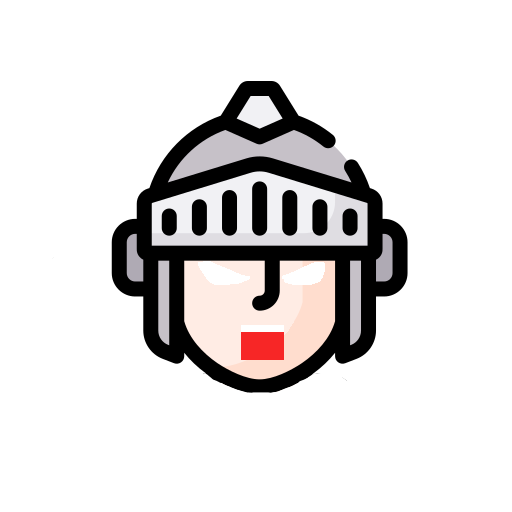
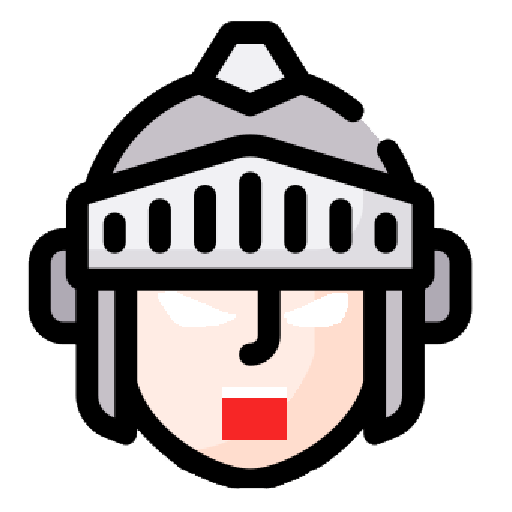
Added Weapon Sprites Fixed knight 2 sizing

diff --git a/Character.py b/Character.py
@@ -23,7 +23,7 @@ class Character(Widget): #Create subclass for all character types  player, enemi
         super().__init__(**kwargs)
         #initiate widget size and widget pos
         self.pos = startpos
-        self.size_hint = (0.5/4, 0.5/3) #weird size_hint being used because ScreenManager is stupid relative layout
+        self.size_hint = (0.5/4, 0.5/3) #weird size_hint being used because ScreenManager is a stupid relative layout
         
         self.game_over = False
         self.movekeys = movekeys
@@ -134,12 +134,7 @@ class Character(Widget): #Create subclass for all character types  player, enemi
             self.stamina.pos = (newx, newy+130)
         #updating position of player model
         
-        if self.collide_widget(b2) or not self.atkoffcd:    
-            
-            self.pos = (currentx, currenty)
-            self.player.pos = (currentx, currenty)
-            self.health.pos = (currentx, currenty+150)
-            self.stamina.pos = (currentx, currenty+130)
+        
             
         #attack functionality    
         if self.movekeys[4] in FA.FightArea.keysPressed:
@@ -154,7 +149,7 @@ class Character(Widget): #Create subclass for all character types  player, enemi
                 self.weapon.weapspawn(((self.player.pos[0] + self.weapondirectiondict[self.orientation][0]), (self.player.pos[1]+ self.weapondirectiondict[self.orientation][1])), self.orientation)
                 Clock.schedule_interval(partial(self.weapon.move, self.orientation), 0)
                 self.atkoffcd = False
-                Clock.schedule_once(self.attackcooldown, 0.5)
+                Clock.schedule_once(self.attackcooldown, self.weapon.weapon_speed)
                 
             else:
                 self.stamina.size = self.stamina.size
@@ -187,7 +182,8 @@ class Character(Widget): #Create subclass for all character types  player, enemi
                     if not was_guarding:
                         self.guarding_sound.play()
                         FA.guard_animation(self, self.left_shield, self.right_shield, self.player.pos)
-                        
+           
+            #Great hammers have a ground smash special            
             if self.weapon.weaptype == "hammer" and not self.parry_state and not self.vuln_state:
                 
                 self.weapon.weapon_color.rgba = (1, 1, 1, 0.5)
@@ -210,6 +206,14 @@ class Character(Widget): #Create subclass for all character types  player, enemi
         if self.stamavail < 100 and not self.guard_state and self.hammer_charge == 0:        
             self.stamavail += 10 * dt
         self.stamina.size = (self.stamavail, self.stamina.size[1])
+        
+        #Ensures that player sprites don't get stuck inside each other
+        if self.collide_widget(b2) or not self.atkoffcd:    
+            
+            self.pos = (currentx, currenty)
+            self.player.pos = (currentx, currenty)
+            self.health.pos = (currentx, currenty+150)
+            self.stamina.pos = (currentx, currenty+130)
            
         
             
@@ -357,9 +361,8 @@ class Character(Widget): #Create subclass for all character types  player, enemi
         
     def hammer_charge_reset(self, dt):
         self.hammer_charge = 0
-        self.weapon.size = (0, 0)
-        self.weapon.hitbox.size = (0, 0)
         
+        self.weapon.weapdespawn()
         self.vuln_state = False
         
 

diff --git a/Weapon.py b/Weapon.py
@@ -21,7 +21,7 @@ class Sword(Widget):
         self.movecost = 0
         self.attack_sound = SoundLoader.load("weapon_swing.wav")
         self.attack_sound.seek(0)
-        
+        self.weapon_speed = 0.9
         
         with self.canvas:
             Color(1, 1, 1, 1)
@@ -37,6 +37,7 @@ class Sword(Widget):
         self.size = Sword.orientationdict[orientation][0]
         self.hitbox.pos = spawnpos
         self.hitbox.size = Sword.orientationdict[orientation][0]
+        self.hitbox.source = "sword{:1}.png".format(orientation)
         pass
     def move(self, orientation, dt, *largs):
         self.attack_sound.play()
@@ -78,7 +79,7 @@ class Lance(Widget):
         self.orientation = orientation
         self.movecost = 0
         self.attack_sound = SoundLoader.load("weapon_swing.wav")
-        
+        self.weapon_speed = 1.2
         
         with self.canvas:
             Color(1, 1, 1, 1)
@@ -94,6 +95,7 @@ class Lance(Widget):
         self.size = Lance.orientationdict[orientation][0]
         self.hitbox.pos = spawnpos
         self.hitbox.size = Lance.orientationdict[orientation][0]
+        self.hitbox.source = "lance{:1}.png".format(orientation)
         pass
     def move(self, orientation, dt, *largs):
         self.attack_sound.play()
@@ -130,9 +132,10 @@ class Hammer(Widget):
         super().__init__(**kwargs)
         self.size = (0, 0)
         self.pos = startpos
-        self.damage = 20
+        self.damage = 40
         self.orientation = orientation
         self.movecost = 0
+        self.weapon_speed = 1.5
         self.attack_sound = SoundLoader.load("weapon_swing.wav")
         
         
@@ -150,10 +153,11 @@ class Hammer(Widget):
         
         self.hitbox.pos = spawnpos
         
+        
         pass
     def move(self, orientation, dt, *largs):
         self.attack_sound.play()
-        self.movecost = 30
+        self.movecost = 40
         curx, cury = self.hitbox.pos 
         coords = [curx, cury]
         curxsize, curysize = self.size

diff --git a/OtherMenus.py b/OtherMenus.py
@@ -23,6 +23,8 @@ class MainMenu(Screen):
         super().__init__(**kwargs)
         BL = BoxLayout()
         BL.orientation = "vertical"
+        BL.size_hint = (0.4, 0.4)
+        BL.pos = (200, 200)
         play_button = Button(text = "Play")
         play_button.bind(on_press = self.playgame)
         settings_button = Button(text = "Credits")
@@ -68,11 +70,11 @@ class Controls(Screen):
         GL.add_widget(self.newtext2)
         
         #Row 2 of widgets in Gridlayout, button to submit textinput to change controls. Again, needs an improvement
-        self.confirm_button1 = Button(text = "Confirm Player 1 controls: wsdazxc(default)")
+        self.confirm_button1 = Button(text = "Confirm Player 1 controls: wsdaert(default)")
         self.confirm_button1.bind(on_press = self.change_controls1)
         GL.add_widget(self.confirm_button1)        
                         
-        self.confirm_button2 = Button(text = "Confirm Player 2 controls: ikljm,.(default)")
+        self.confirm_button2 = Button(text = "Confirm Player 2 controls: ol;kp[](default)")
         self.confirm_button2.bind(on_press = self.change_controls2)
         GL.add_widget(self.confirm_button2)
         
@@ -126,7 +128,7 @@ class Controls(Screen):
         lance_select1.bind(on_press = self.choose_lance1)
         BL2P1.add_widget(lance_select1)
         
-        hammer_select1 = Button(text = "Hammer \n Special: Smash")
+        hammer_select1 = Button(text = "Great Hammer \n Special: Smash")
         hammer_select1.bind(on_press = self.choose_hammer1)
         BL2P1.add_widget(hammer_select1)
         
@@ -158,7 +160,7 @@ class Controls(Screen):
         lance_select2.bind(on_press = self.choose_lance2)
         BL2P2.add_widget(lance_select2)
         
-        hammer_select2 = Button(text = "Hammer \n Special: Smash")
+        hammer_select2 = Button(text = "Great Hammer \n Special: Smash")
         hammer_select2.bind(on_press = self.choose_hammer2)
         BL2P2.add_widget(hammer_select2)
 

diff --git a/FightArea.py b/FightArea.py
@@ -18,19 +18,6 @@ from kivy.uix.button import Button
 from kivy.uix.label import Label
 
 
-def collides(body1, body2):
-    r1x = body1[0][0]
-    r1y = body1[0][1]
-    r2x = body2[0][0]
-    r2y = body2[0][1]
-    r1w = body1[1][0]
-    r1h = body1[1][1]
-    r2w = body2[1][0]
-    r2h = body2[1][1]
-
-    if (r1x < r2x + r2w and r1x + r1w > r2x and r1y < r2y + r2h and r1y + r1h > r2y):
-        return True
-    return False
 
 def parried_animation(widget, *args):
     widget.blink_size = 0
